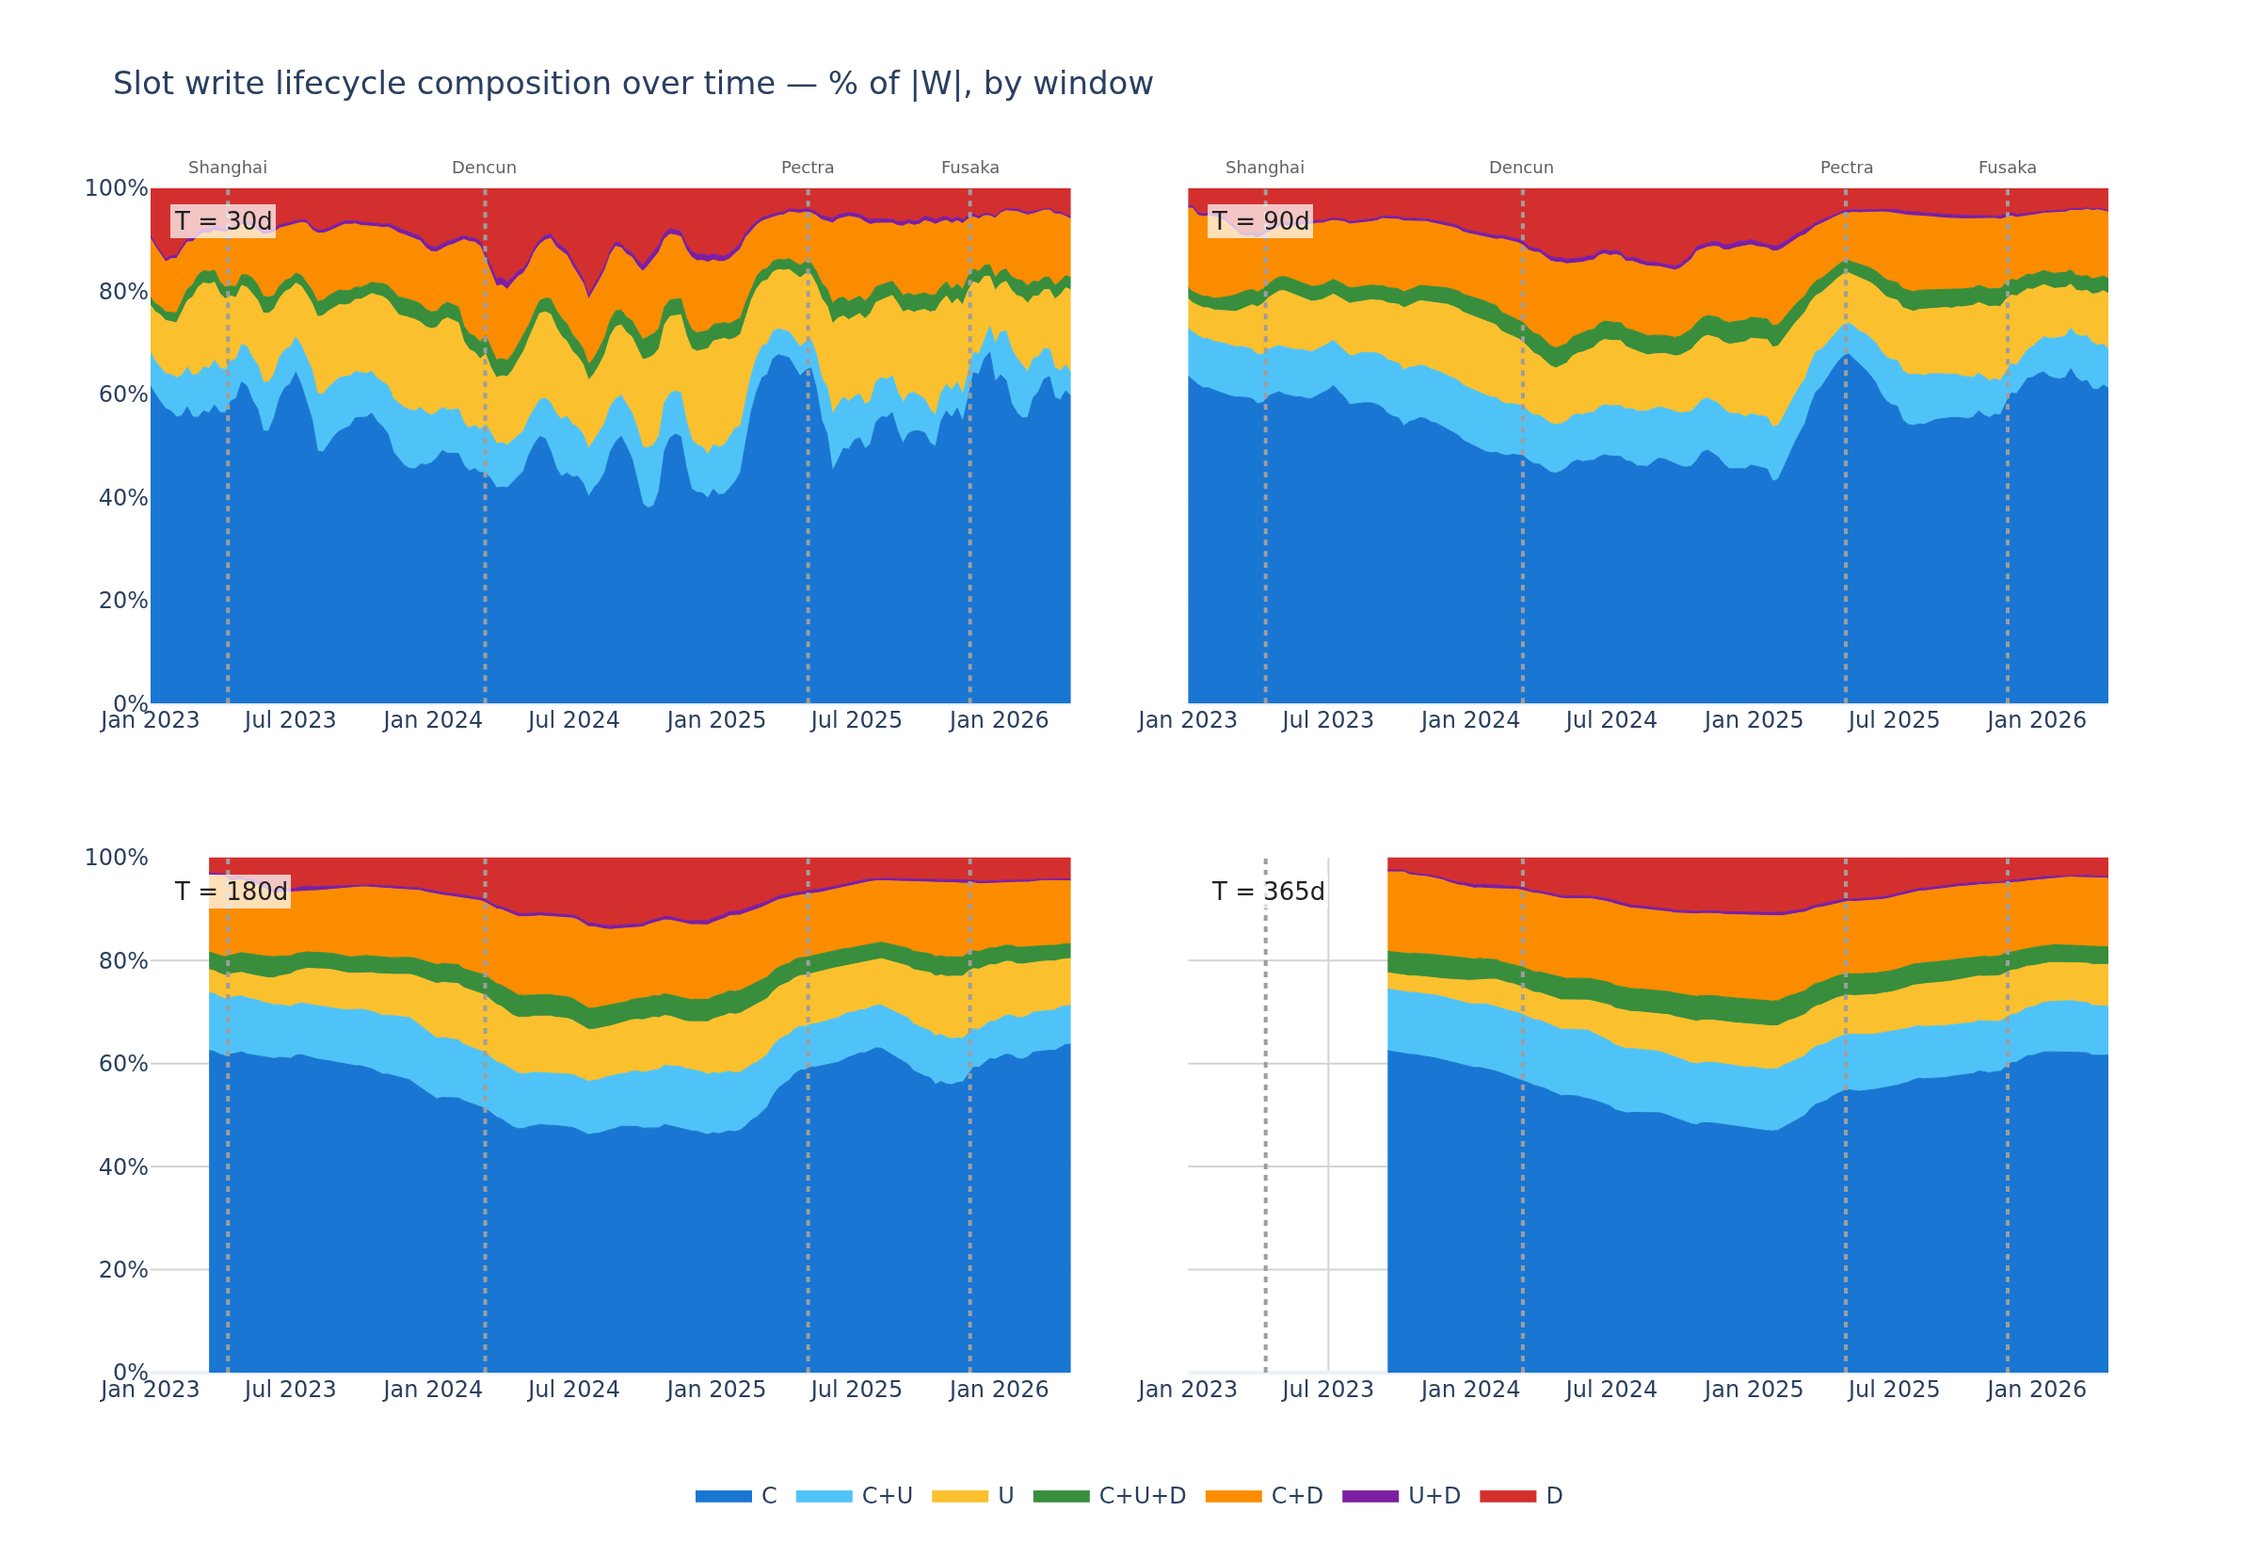
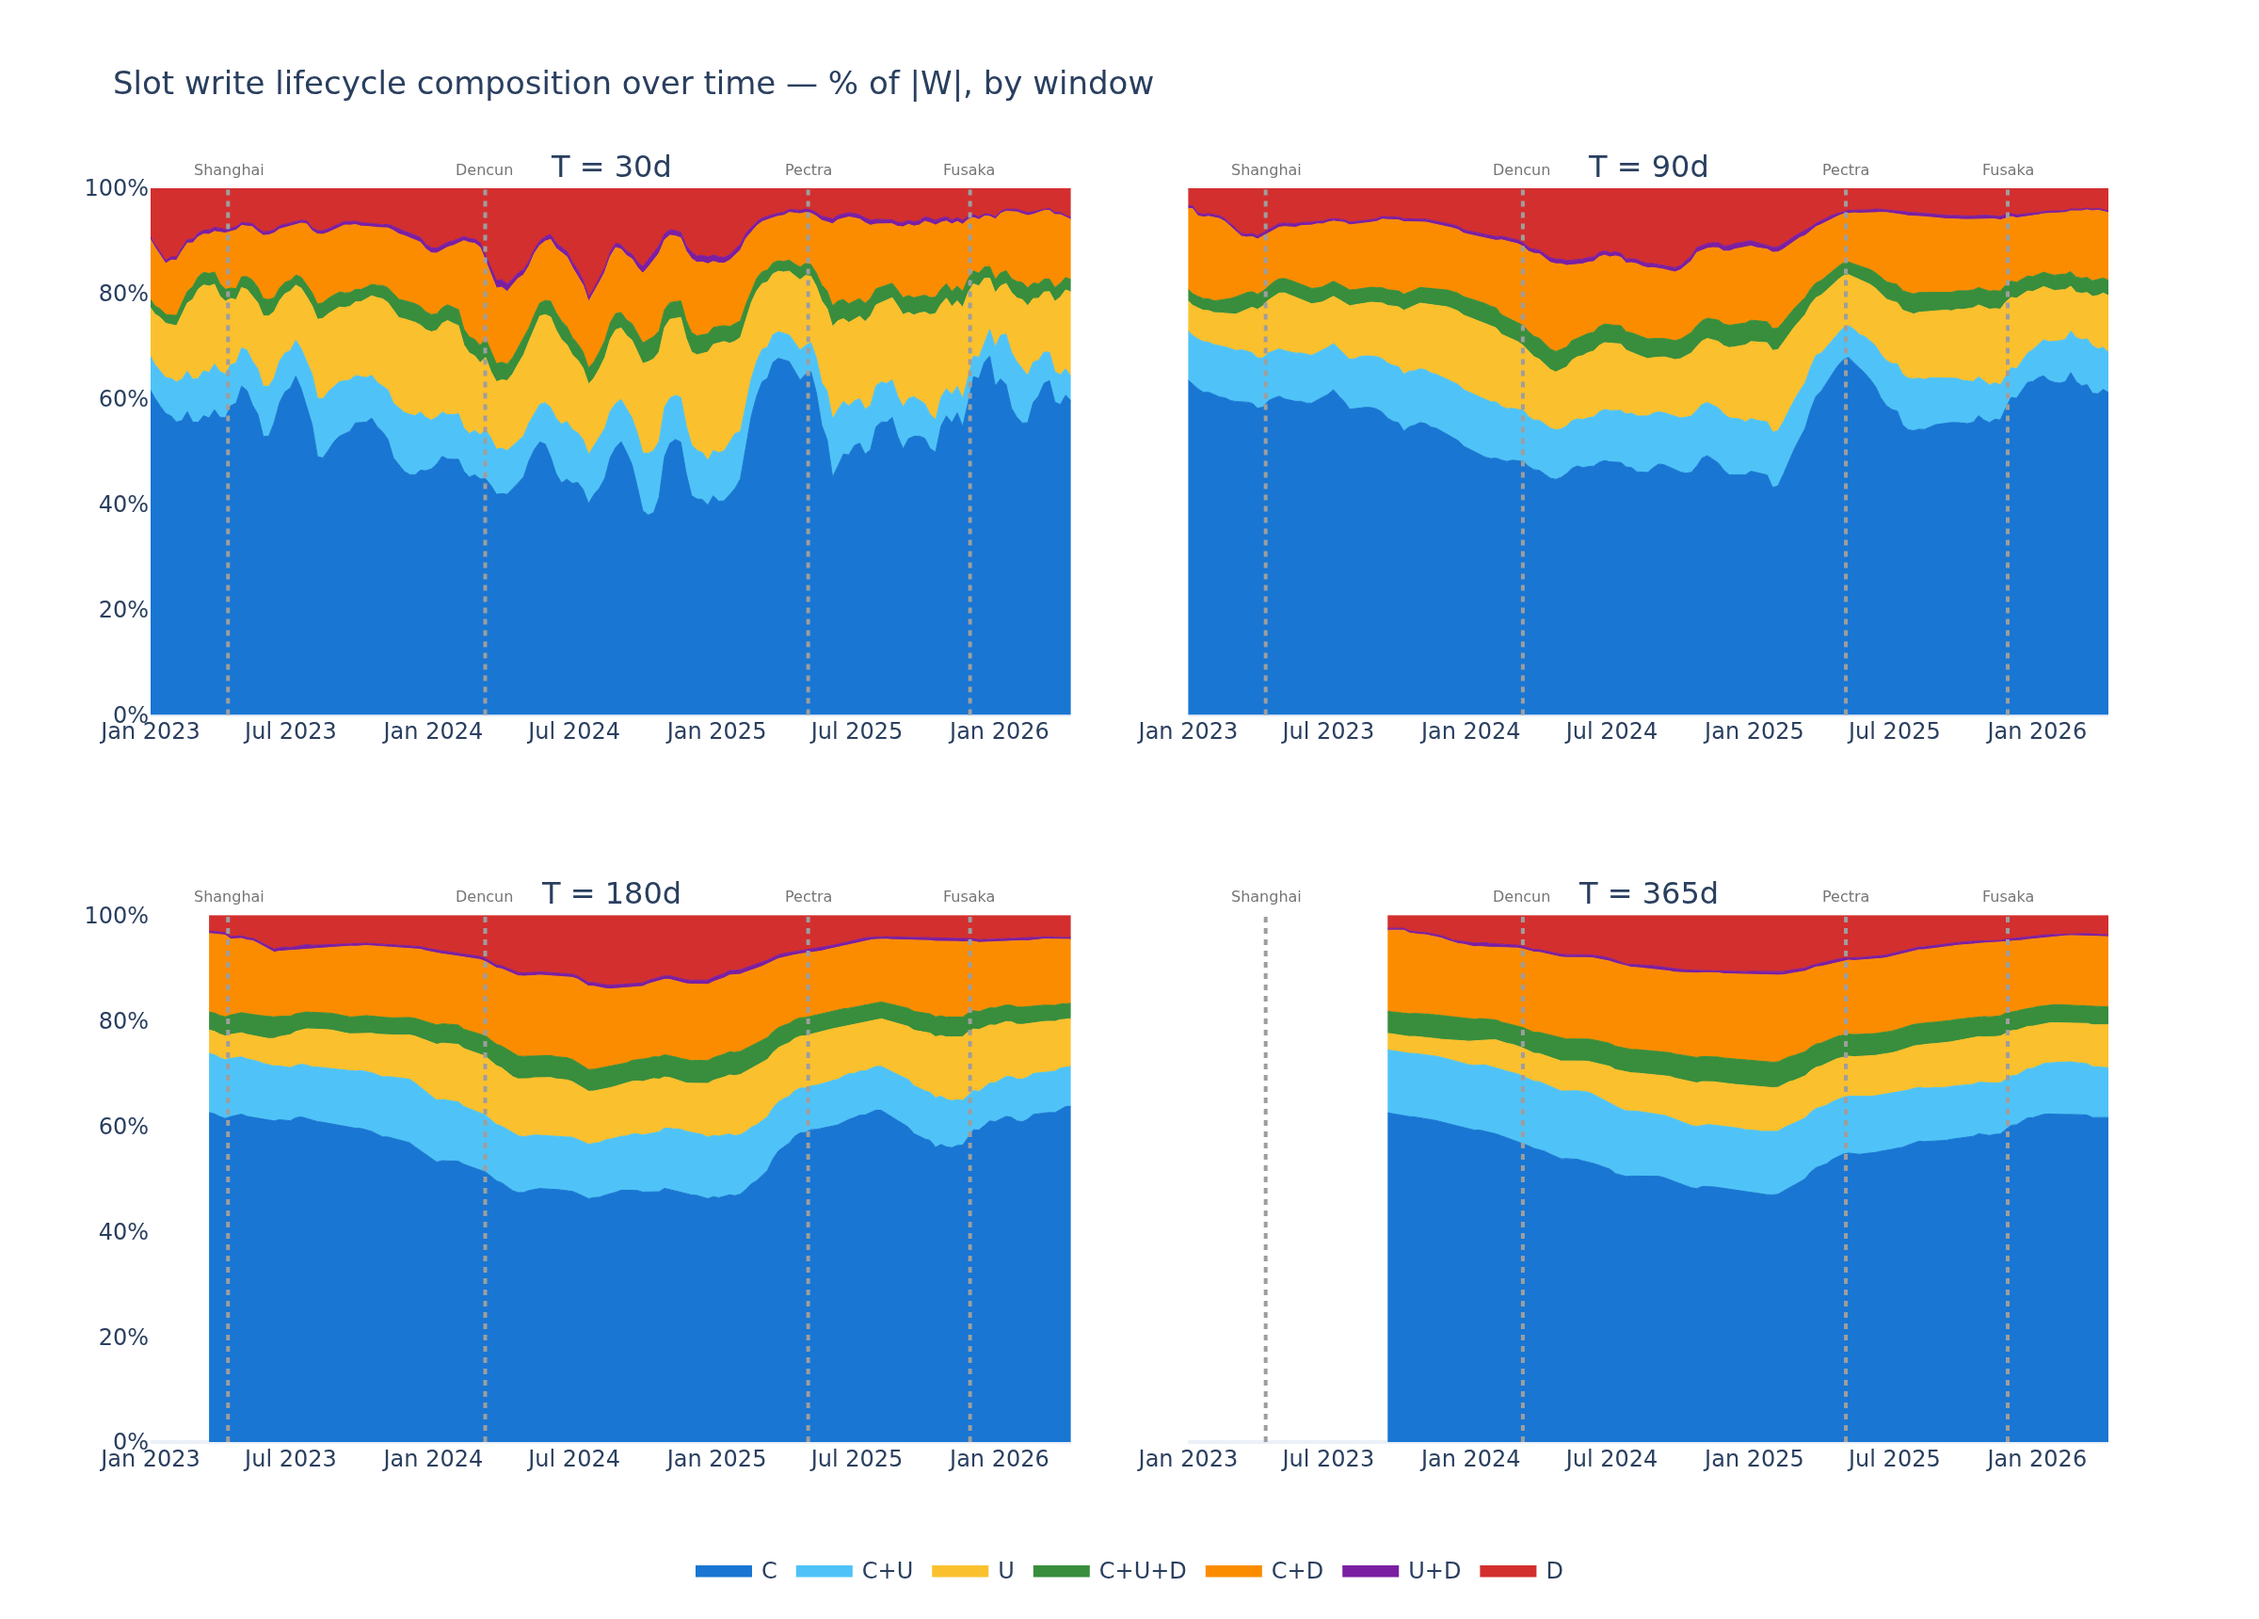
state_access v2: rework composition chart layout, humanize read tables, drop full-history read chart

diff --git a/state_access/analysis_v2_sweep.py b/state_access/analysis_v2_sweep.py
@@ -172,8 +172,8 @@ def _composition_fig(df: pd.DataFrame, classes: list, denom_col: str, title: str
     """4-panel (one per window) stacked-area composition over time, shares to 100%."""
     windows = sorted(df["window_days"].unique())
     fig = make_subplots(
-        rows=2, cols=2, shared_yaxes=True, vertical_spacing=0.13,
-        horizontal_spacing=0.06)
+        rows=2, cols=2, subplot_titles=[f"T = {t}d" for t in windows],
+        shared_yaxes=True, vertical_spacing=0.16, horizontal_spacing=0.06)
     for i, t in enumerate(windows):
         row, col = i // 2 + 1, i % 2 + 1
         sub = df[df.window_days == t].sort_values("date")
@@ -184,23 +184,20 @@ def _composition_fig(df: pd.DataFrame, classes: list, denom_col: str, title: str
                 x=sub["date"], y=100 * num / denom, name=label, legendgroup=label,
                 showlegend=(i == 0), mode="lines", stackgroup=f"w{t}",
                 line=dict(color=color, width=0.5), fillcolor=color), row=row, col=col)
-        fig.add_annotation(text=f"T = {t}d", row=row, col=col, xref="x domain",
-                           yref="y domain", x=0.02, y=0.97, showarrow=False,
-                           xanchor="left", yanchor="top",
-                           font=dict(size=13, color="#212121"),
-                           bgcolor="rgba(255,255,255,0.72)")
-    # Fork lines span every panel; label them once above the top row, clear of the fill.
+    # Fork lines span every panel; label each panel just above its plot area, below the
+    # centred T = Nd title.
     for name, block in FORKS.items():
         x = block_to_date(block).strftime("%Y-%m-%d")
         fig.add_vline(x=x, line_dash="dot", line_color="#9E9E9E", row="all", col="all")
-        for col in (1, 2):
-            fig.add_annotation(x=x, y=1.0, yref="y domain", text=name, row=1, col=col,
-                               showarrow=False, yanchor="bottom", yshift=4,
-                               font=dict(size=9, color="#616161"))
-    fig.update_yaxes(range=[0, 100], ticksuffix="%", gridcolor="lightgray")
-    fig.update_xaxes(gridcolor="lightgray")
+        for row in (1, 2):
+            for col in (1, 2):
+                fig.add_annotation(x=x, y=1.0, yref="y domain", text=name, row=row,
+                                   col=col, showarrow=False, yanchor="bottom", yshift=3,
+                                   font=dict(size=8, color="#757575"))
+    fig.update_yaxes(range=[0, 100], ticksuffix="%", showgrid=False)
+    fig.update_xaxes(showgrid=False)
     fig.update_layout(
-        title=title, template="plotly_white", width=1200, height=820,
+        title=title, template="plotly_white", width=1200, height=860,
         legend=dict(orientation="h", y=-0.08, x=0.5, xanchor="center"))
     return fig
 

diff --git a/state_access/REPORT_v2.md b/state_access/REPORT_v2.md
@@ -171,7 +171,6 @@ equally:
 | 180 | 55.5% | 10.0% |  9.4% | 3.7% | 13.6% | 0.6% | 7.2% |
 | 365 | 55.4% | 11.4% |  7.0% | 4.2% | 14.7% | 0.5% | 6.8% |
 
-TODO: the T=30d, T=90d should not be in the chart. It should be above the fork labels. For T=180d and T=365d, add the fork labels also. For T = 365d, there's a white space on the left side and the grid. Remove the grid.
 ![Slot write composition over time](data/v2/sweep_write_composition.png)
 
 Findings:
@@ -196,31 +195,27 @@ writes, two views follow, the all-time totals and the per-window split over time
 
 Every read event over all of history.
 
-TODO: remove pre-merge and post-merge share
 **Slot read events** (23.69B total, 2.6× the write events):
 
-| returned value | events | share | pre-merge share | post-merge share |
-|---|---:|---:|---:|---:|
-| nonzero | 16,552,716,483 | **69.9%** | 70.2% | 69.7% |
-| zero | 7,138,221,664 | 30.1% | 29.8% | 30.3% |
+| returned value | events | share |
+|---|---:|---:|
+| nonzero | 16,552,716,483 | **69.9%** |
+| zero | 7,138,221,664 | 30.1% |
 
 **Account read events:**
-
-TODO: the call_to, call_from, make it more concise and understandable rather than the label itself. Also, miner_fee is withdrawal deposit?
 
 | source | metric | events | share |
 |---|---|---:|---:|
 | balance reads (15.10B) | nonzero | 9,845,422,896 | **65.2%** |
 | | zero | 5,251,717,095 | 34.8% |
-| nonce reads (13.64B) | nonzero | 13,637,765,012 | 100% (see note) |
-| appearances (41.98B) | call_to / call_from | 15.74B each | 37.5% each |
-| | tx_from / miner_fee / tx_to | 3.39B each | 8.1% each |
-| | factory / create | ~100M each | 0.24% each |
-| | suicide / suicide_refund | ~60M each | 0.14% each |
+| nonce reads (13.64B) | nonzero (post-increment, never 0) | 13,637,765,012 | 100% |
+| appearances (41.98B) | internal-call target / caller | 15.74B each | 37.5% each |
+| | tx sender / fee recipient / tx recipient | 3.39B each | 8.1% each |
+| | contract creator / new contract | ~100M each | 0.24% each |
+| | selfdestruct caller / refund recipient | ~60M each | 0.14% each |
 
-
-TODO: remove this chart
-![Full-history read event mix](data/v2/history_event_totals_reads.png)
+The fee recipient is the block proposer credited the transaction's priority fee, not a
+consensus-layer withdrawal (those are not recorded, §3).
 
 Findings:
 
@@ -247,7 +242,6 @@ accounting (§3). As a share of |R|:
 | 180 | 90.9% |  9.1% |
 | 365 | 92.7% |  7.1% |
 
-TODO: same feedback as the chart above. Also I wonder zero-only correlates with creations? Because write will always check the existing value, so probing for empty value.
 ![Slot read composition over time](data/v2/sweep_read_composition.png)
 
 - **Most of R is empty-slot probes**, `SLOAD` returning 0 against unset slots: mapping
